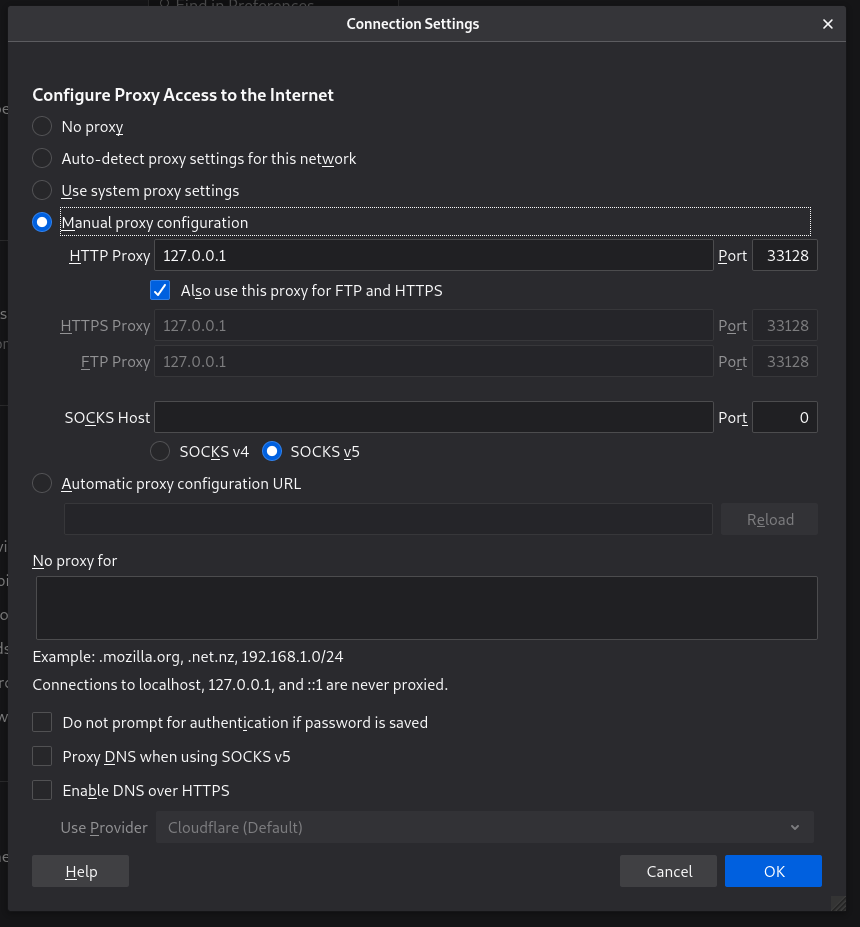
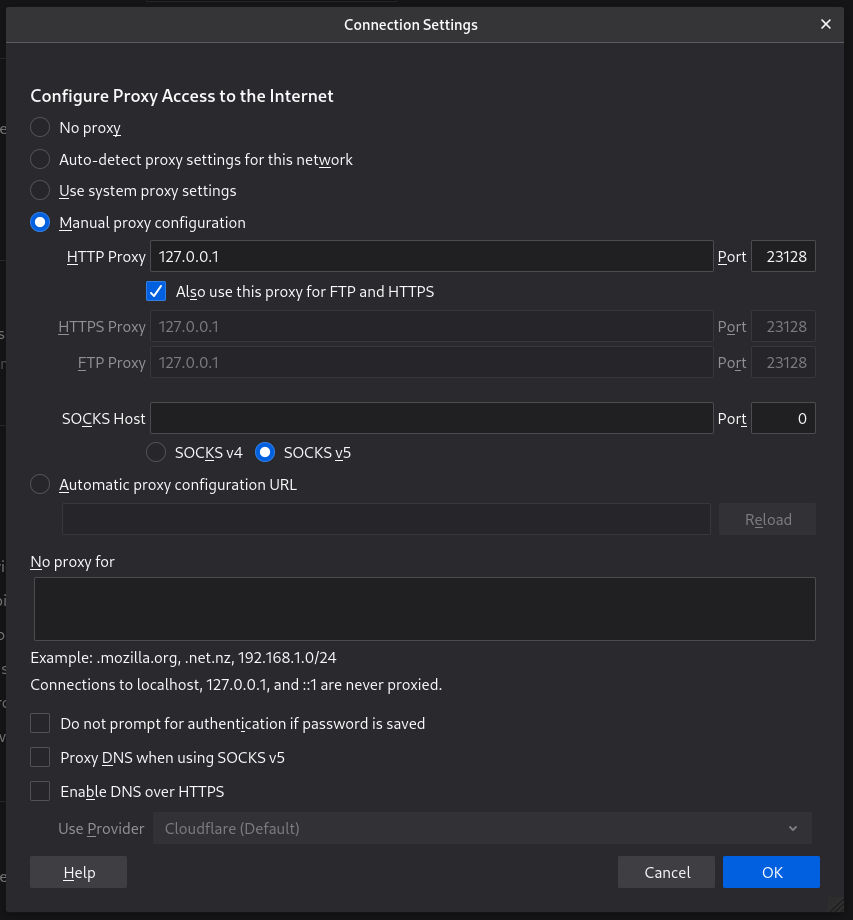
Tidyup, do not use user keys directly

diff --git a/README.md b/README.md
@@ -3,7 +3,7 @@
 ## Container config
 
 Running `./launch.sh` will build the image and launch an ephemeral container.
-The behavior can be configured with the below shell environment variables.
+The behaviour can be configured with the below shell environment variables.
 
 | Variable            | Description                                     | Default                   |
 |---------------------|-------------------------------------------------|---------------------------|
@@ -12,11 +12,11 @@ The behavior can be configured with the below shell environment variables.
 | `VPN_USER`          | VPN username                                    | NULL                      |
 | `VPN_PASS`          | VPN password (won't echo when asked)            | NULL                      |
 | `VPN_SSH_KEY`       | SSH public key to use in authorized_keys        | `${HOME}/.ssh/id_rsa.pub` |
-| `PROXY_PORT_OFFSET` | Offset ports by this value (eg. offset + 22)    | 30000                     |
+| `PROXY_PORT_OFFSET` | Offset ports by this value (eg. offset + 22)    | 20000                     |
 
 ## SSH Client Config
 
-This assumes you leave `PROXY_PORT_OFFSET` as the default 30000.
+This assumes you leave `PROXY_PORT_OFFSET` as the default 20000.
 
 ### Proxy container host config
 
@@ -28,7 +28,7 @@ Host blindeye
   Hostname 127.0.0.1
   User null
   IdentityFile ~/.ssh/id_rsa
-  Port 30022
+  Port 20022
   StrictHostKeyChecking no
   UserKnownHostsFile /dev/null
 ```
@@ -47,7 +47,7 @@ Host jumpbox
 
 ## HTTP proxy
 
-This assumes you leave `PROXY_PORT_OFFSET` as the default 30000.
+This assumes you leave `PROXY_PORT_OFFSET` as the default 20000.
 
 ### Firefox example
 
@@ -59,6 +59,6 @@ Settings". Click the "Settings" button.
 
 ![Network Settings](images/NetworkSettings.png)
 
-Enter 127.0.0.1:33182 as the HTTP/HTTPS/FTP proxy.
+Enter 127.0.0.1:23182 as the HTTP/HTTPS/FTP proxy.
 
 ![Network Settings](images/HTTPProxySettings.png)
